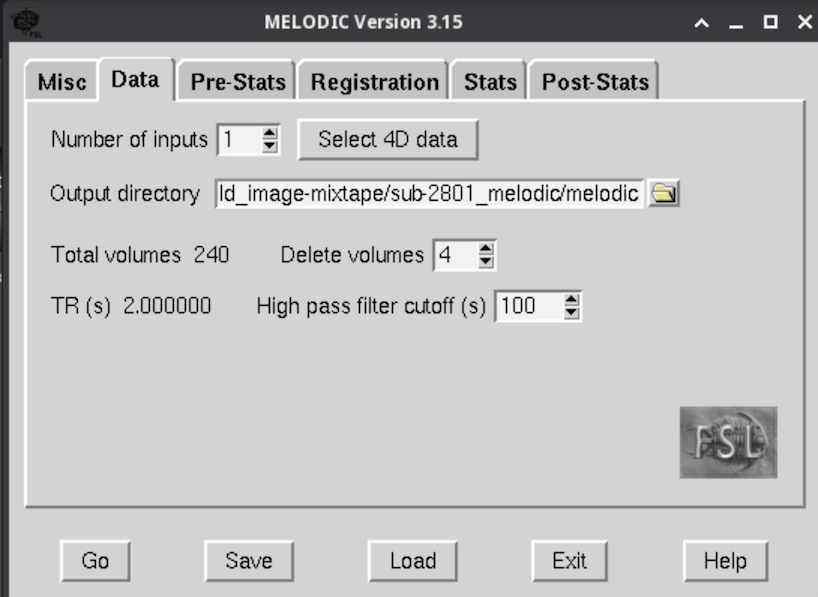
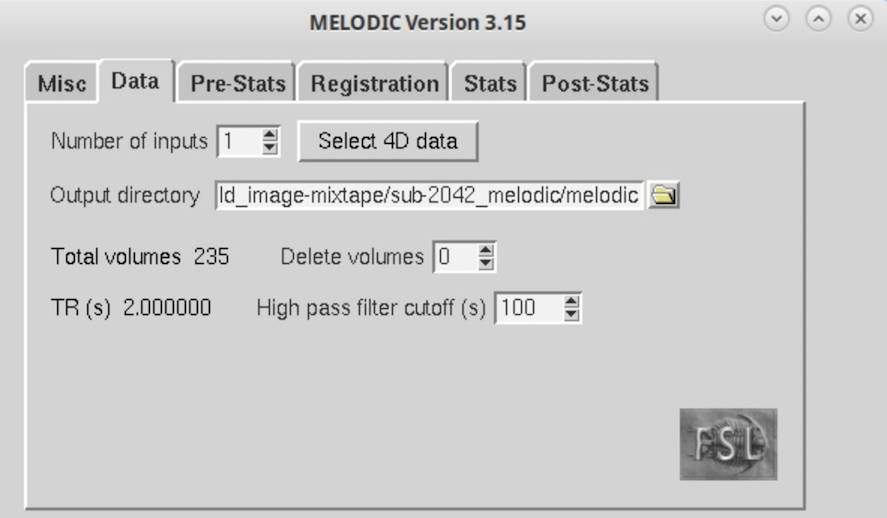
update denoising lab

Changed region(s): [[0.0, 0.0, 1.0, 1.0]]

diff --git a/practical_spatiotemporal-denoising.md b/practical_spatiotemporal-denoising.md
@@ -8,38 +8,43 @@ The purpose of this lab is to get hands-on experience interpreting the output of
 **By the end of this practical you should be able to:** <br/>
 * [ ] interpret motion timeseries plots
 * [ ] interpret the output of FSL's [MELODIC](https://fsl.fmrib.ox.ac.uk/fsl/fslwiki/MELODIC) tool for a single-subject ICA analysis
-* [ ] open MELODIC-estimated components within [fsleyes's melodic scene](https://users.fmrib.ox.ac.uk/~paulmc/fsleyes/userdoc/latest/ic_classification.html#loading-a-melodic-analysis)
-* [ ] understand the process of manually labeling components as signal or noise using a conservative "innocent until proven guilty" criteria such as outlined in [Griffanti et al., 2017](https://github.com/mwvoss/MRI-lab-classes/tree/master/PSY6280-2020-FA2020/pdfs/Griffanti-2017-ICA.pdf)
+* [ ] open MELODIC-estimated components within [fsleyes's melodic scene](https://open.win.ox.ac.uk/pages/fsl/fsleyes/fsleyes/userdoc/ic_classification.html)
+* [ ] understand the process of manually labeling components as signal or noise using a conservative "innocent until proven guilty" criteria such as outlined in [Griffanti et al., 2017](https://github.com/mwvoss/PSY6280/blob/main/pdfs/Griffanti-2017-ICA.pdf)
 <br/>
 
 **Access FastX** through the remote login: <br>
 https://fastx.divms.uiowa.edu:3443/  <br/>
 <br/>
 
+**Download lab assignment questions**: <br>
+[Lab 7 assignment doc](https://www.dropbox.com/s/frvt6aacf9js8ci/Lab-07_questions.docx?dl=0) <br>
+<br/>
 
 **Lab data** <br>
 We will continue working with the data from our mixtape directories.
 </br>
 
 **Step 1: Prepare a new derivatives directory for melodic output**
+* Create a skull-stripped T1 image for sub-2042 if you haven't yet (Hint: default settings with -R and -f .5 and -g 0 should work)
 * Move yourself to the `~/fmriLab/bold_image-mixtape/` directory
-* At the terminal, type: `mkdir sub-2801_melodic`
+* At the terminal, type: `mkdir sub-2042_melodic`
 
 **Step 2: Run preprocessing and ICA with Melodic** 
 * Open the fsl GUI menu by typing `fsl` in the terminal
 * Click on the `MELODIC` button
 * Data tab
-    * Click `Select 4D data` and select sub-2801's bold image (that has not been registered)
-    * Select the `sub-2801_melodic` directory as your Output directory
-    * Delete the first 4 volumes (to remove the impact of dummy volumes)
+    * Click `Select 4D data` and select sub-2801's bold image with dummy volumes removed (that has not been registered)
+    * Select the `sub-2801_melodic` directory as your Output directory and name the output `melodic` like shown below
     * Maintain the High Pass filter as 100s
 ![ ](images/denoising_melodic-input.png)
-
+</br>
 * Pre-Stats tab
     * Maintain MCFLIRT with the default reference image of the middle volume
+        * Check out options for `Alternative reference image`: what would be an example?
     * Maintain "BET" brain extraction as "on"
     * Change spatial smoothing to 6
     * Maintain the Highpass filter as set "on"
+</br>  
 * Registration tab
     * Select a `Main structural image` and select your skull-stripped T1w image from your T1w mixtape directory
     * For the purposes of time we'll run linear registration
@@ -56,9 +61,9 @@ We will continue working with the data from our mixtape directories.
 </br>
 
 **Step 3: Open the melodic web report for overview of pre-stats (motion) and melodic results** 
-* Within the file browser, navigate to the `melodic.ica` directory for sub-2801 and open the `report.html` file with a web browser
-* **Break-out questions**
-    * `Pre-Stats` page: What kind of motion profile do you see? Broadly, would we characterize this participant as "low-motion" or "high-motion"?
+* Within the file browser, navigate to the `melodic.ica` directory for sub-2042 and open the `report.html` file with a web browser
+* **Discussion questions**
+    * `Pre-Stats` page: These motion traces should look familiar, they are what we generated for this participant in the last lab.
     * `Registration` page: You should now know what you're looking at! Any concerns?
     * `Log` page: here's where everything that was run is documented, starting with `Initialisation` you can see the initial input was the raw nifti bold image without preprocessing. What file is the input to melodic processing?
     * Finally, the main results are shown in the `ICA` page: We will talk through what you're seeing.
@@ -71,7 +76,7 @@ We will continue working with the data from our mixtape directories.
 * Open fsleyes with the melodic scene setting: `fsleyes --scene melodic -ad filtered_func_data.ica filtered_func_data.ica/melodic_IC.nii.gz`
 * You should see something like below: <br>
 ![melodicview](images/denoising_melodicView.png)
-* **Break-out questions to prep for manual labeling**
+* **Discussion questions to prep for manual labeling**
     * The `Nyquist frequency` is half the sampling rate. The Nyquist frequency is also called the Nyquist limit or folding limit, because it is the highest frequency that can be faithfully recovered at a given sampling rate in order to be able to fully reconstruct the signal. When a source signal is faster than this limit, then it may get aliased or "folded" into the reconstructed signals as a slower frequency signal.
         * The sampling rate for fMRI data is the Time of Repetition (TR), which is the rate of measurement for each 3D bold image in our 4D series. Reminder the `TR` for this data is 2 seconds.
         * Convert this period to frequency as `1/TR = 1/2 = .5 Hz`
@@ -79,13 +84,28 @@ We will continue working with the data from our mixtape directories.
         * This means the highest frequency signal that could be truly recovered in this bold data is less than or equal to .25 Hz.
         * Compare this limit to the power spectrum shown for each component in fsleyes. 
             * What does this mean for physiological noise that would occur at higher frequencies? How might the timeseries look for components with these sources?
+        * Based on our high-pass filter of 100s, what is the lowest frequency we should see in our components?
     * To label a component, double click within the open text box next to the component in the `Melodic IC classification` viewer.
         * Think about:
             * What are the similarities and differences of respiratory and cardiac related noise?
             * What is the first component that looks like signal of interest? How does do the spatial map, timeseries, and power spectrum look different than the noise components?
         * Note that for denoising purposes, only the distinction of signal vs. noise is used later
             * Additional details about the source of noise could be useful if you would like to track the number of components from different sources in your data, and you could use that information for testing selective denoising tuned to one type of noise source.
-    * You do not need to label all the components for this lab
-        * After you've looked at about half and/or seen at least two components that reflect signal, run melodic with another participant for whom you have a skull stripped brain for. 
+    * Reminder of frequency range for common physiological noise sources:
+        * Respiration: ~.1 - .5 Hz
+        * Heart rate: ~.6 - 1.2 Hz
+        * Respiration depth: ~ 0 – .03 Hz
+    * Use the decision tree shown in Griffanti et al to step through each component in space, time, and frequency: 
+    ![decision-tree](images/denoising_decision-tree.png)
+    * If you are less familiar with activation patterns considered "signal" based on the literature, use the spatial maps shown in the [Smith et al., paper](https://github.com/mwvoss/PSY6280/blob/main/pdfs/Smith-2009-BrainNets.pdf) as a complementary resource.  
+
+</br>
+
+* **Lab assignment**
+
+    * Label all the components and save your labels with the `Save labels` button
+        * Save your labels with the `Save labels` button and name your file something like `manual_labels`. These will appear in the participant’s melodic.ica/filtered_func_data.ica directory. Copy and paste the final row that appears in brackets to your lab assingment doc and note the percentage of components you labeled as noise. 
+    * Did any component(s) seem to reflect the pattern of noise that we saw in the below trace for relative head motion. Does melodic give us any further insight on whether this head motion reflects breathing or something else?
+    * Given the time and subjectivity of manual labeling, why must it remain an option for denoising fMRI data? In what cases would a manual labeling approach be preferable to a fully automated approach that uses features in the data to classify noise and remove them from your data without you having to look at components for anyone individually?  In what cases would a fully automated approach be considered valid and preferable? 
 </br>
 
